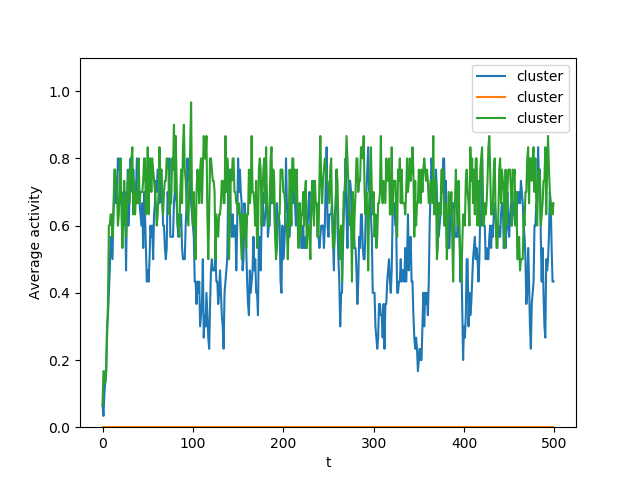
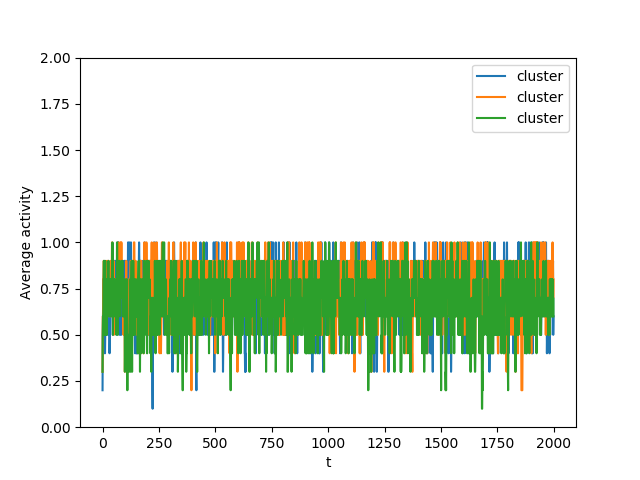
CODING: 3 clusters per ora non funzionano molto, secondo me perche i control nodes non sono molto effettivi, devo studiare bene i control nodes per cluster singoli

diff --git a/analysis.py b/analysis.py
@@ -152,10 +152,17 @@ df.to_csv(PATH+"/data/mean-number-of-loops.dat",sep=" ",header=False)
 #%%
 import  random_network  as rn
 
+import pylab as plt
+import numpy as np
+import networkx as nx
 
-frames = 500
+import  random_network  as rn
+import pandas as pd
+
+
+frames = 2000
 number_of_clusters = 3
-N = 30
+N = 10
 K = 2
 graphs = [rn.Random_Network(N, 2) for i in range(number_of_clusters)]
 single_cluster_control_nodes = [rn.find_control_nodes(graphs[i],N) for i in range(number_of_clusters)]
@@ -164,8 +171,8 @@ tot = rn.create_clusters(graphs, control_nodes, N,number_of_clusters)
 Net = rn.Network(tot)
 ############# INITIAL CONDITIONS #####################
 for i in range(number_of_clusters):
-    Net.nodes[control_nodes[i]] = 1
-    #Net.nodes[np.random.randint(N*i,N*(i+1))] = 1
+    N#et.nodes[control_nodes[i]] = 1
+    Net.nodes[np.random.randint(N*i,N*(i+1))] = 1
     
 #Net.nodes = np.ones((N*number_of_clusters,1))
 
@@ -179,16 +186,20 @@ activities = []
 for j in range(frames):
     rn.evolution(Net,iterations=1,p = 0.2)
     for i in control_nodes:
+        ##### PROBABILITÀ DI AZZERARE IL CONTROL NODE AD OGNI STEP
         if np.random.uniform(0,1)<0.5:
-         Net.nodes[control_nodes] = 0
-         a =  np.random.randint(N*number_of_clusters-N)
-    Net.adj_matrix[a + np.random.randint(-N,N)][a + np.random.randint(-N,N)] = 0    
+          Net.nodes[control_nodes] = 1
+        
+
+    #UCCIDO UN LINK AD OGNI STEP ####################
+    a =  np.random.randint(N*number_of_clusters-N)
+    #Net.adj_matrix[a + np.random.randint(-N,N)][a + np.random.randint(-N,N)] = 0    
         
     activities.append(rn.activity(Net, N,number_of_clusters=number_of_clusters))
 plt.plot(activities,label="cluster")
 plt.legend()
 plt.xlabel("t")
 plt.ylabel("Average activity")
-plt.ylim(0,1.1)
+plt.ylim(0,2)
 plt.savefig("3clusters.png")
 

diff --git a/random_network.py b/random_network.py
@@ -101,6 +101,7 @@ def create_clusters(graphs,control_nodes, N,number_of_clusters=1):
     
     for j in range(number_of_clusters):
          tot[control_nodes[-j]][control_nodes[-j-1]] = -100
+         tot[control_nodes[-j-1]+np.random.randint(-1,2)][control_nodes[-j]+np.random.randint(-1,2)] = -100
          
     return tot
 
